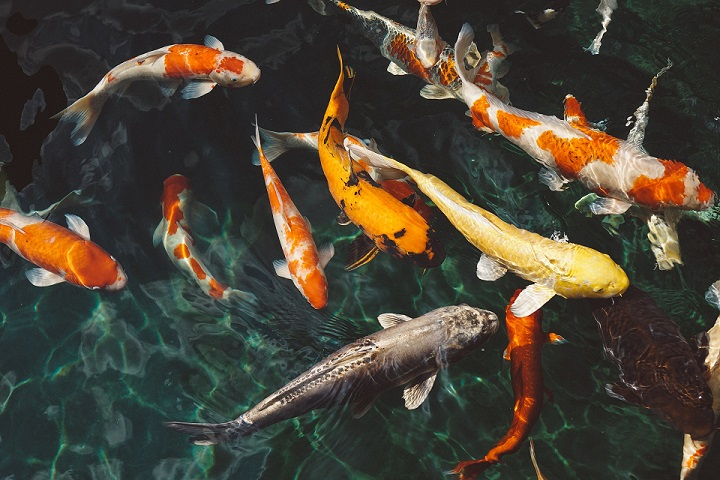
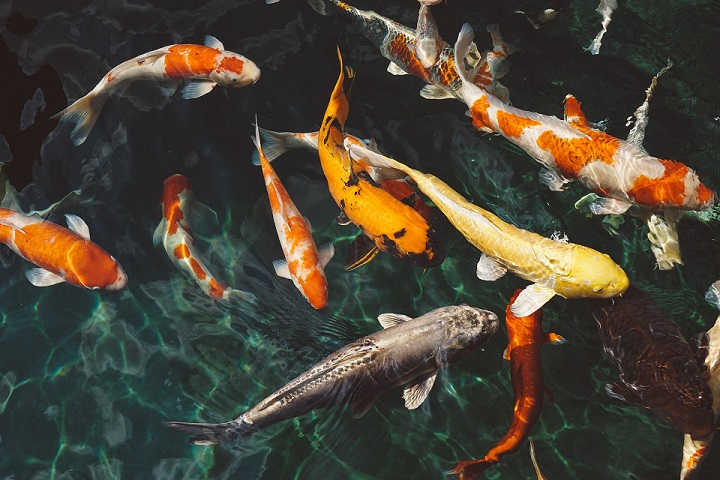
Compressed images

diff --git a/src/index.html b/src/index.html
@@ -45,7 +45,7 @@
     </nav>
 
     <header id="header">
-      <img src="img/pexels-photo-213399.jpeg" alt="Hero image - colourful fish in a pond" class="header__img">
+      <img src="img/pexels-photo-213399v2.jpeg" alt="Hero image - colourful fish in a pond" class="header__img">
       <h1><span>I create </span> <span class='header__span'>websites</span></h1>
     </header>
 
@@ -210,7 +210,7 @@
             <div class="card-back back-2">
               <a href="https://alekpentchev.github.io/monster-slayer/index.html">live</a>
               <hr>
-              <a href="https://github.com/alekpentchev/vue-monster_slayer" target=_blank"">repo</a>
+              <a href="https://github.com/alekpentchev/vue-monster_slayer" target="_blank">repo</a>
             </div>
           </div>
 
